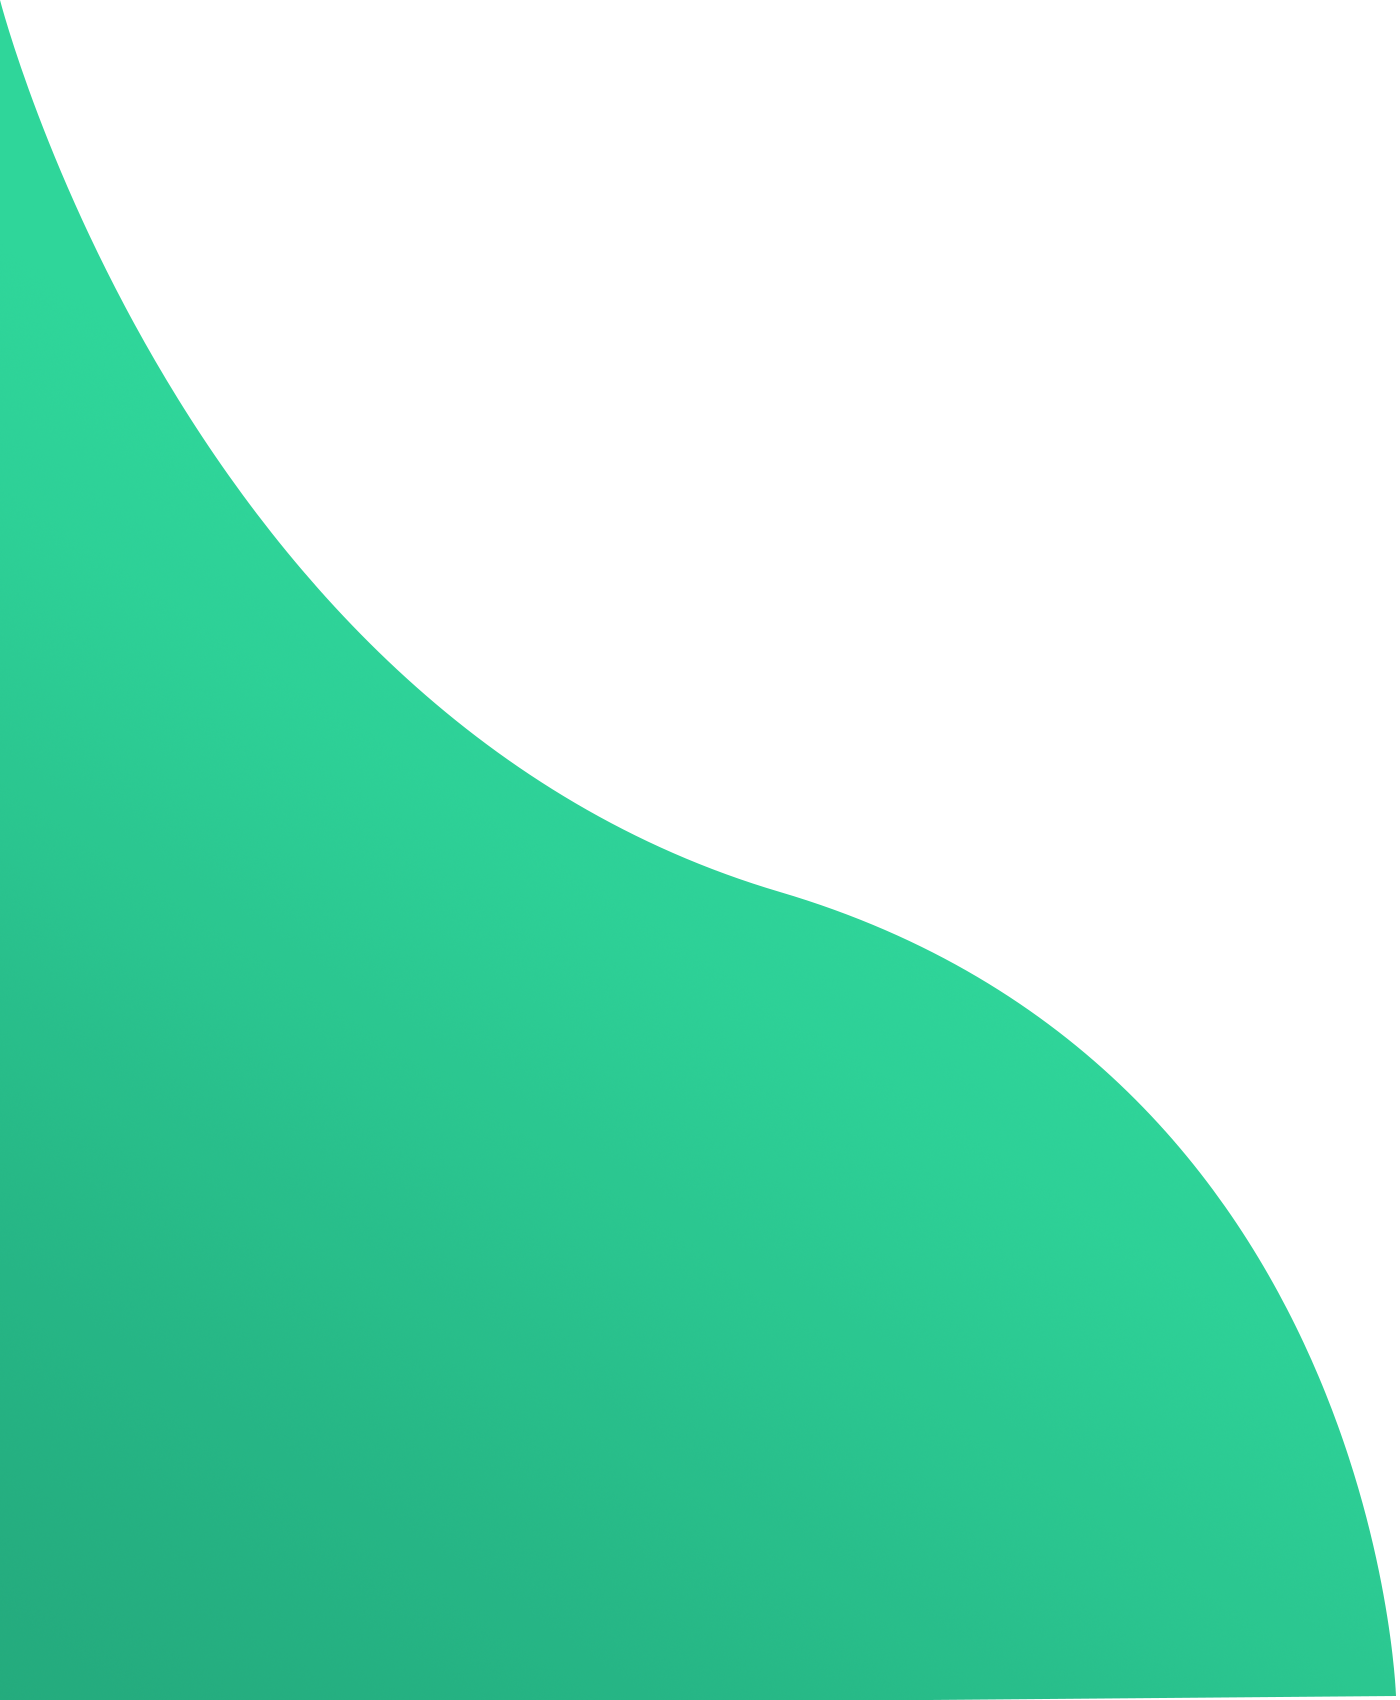
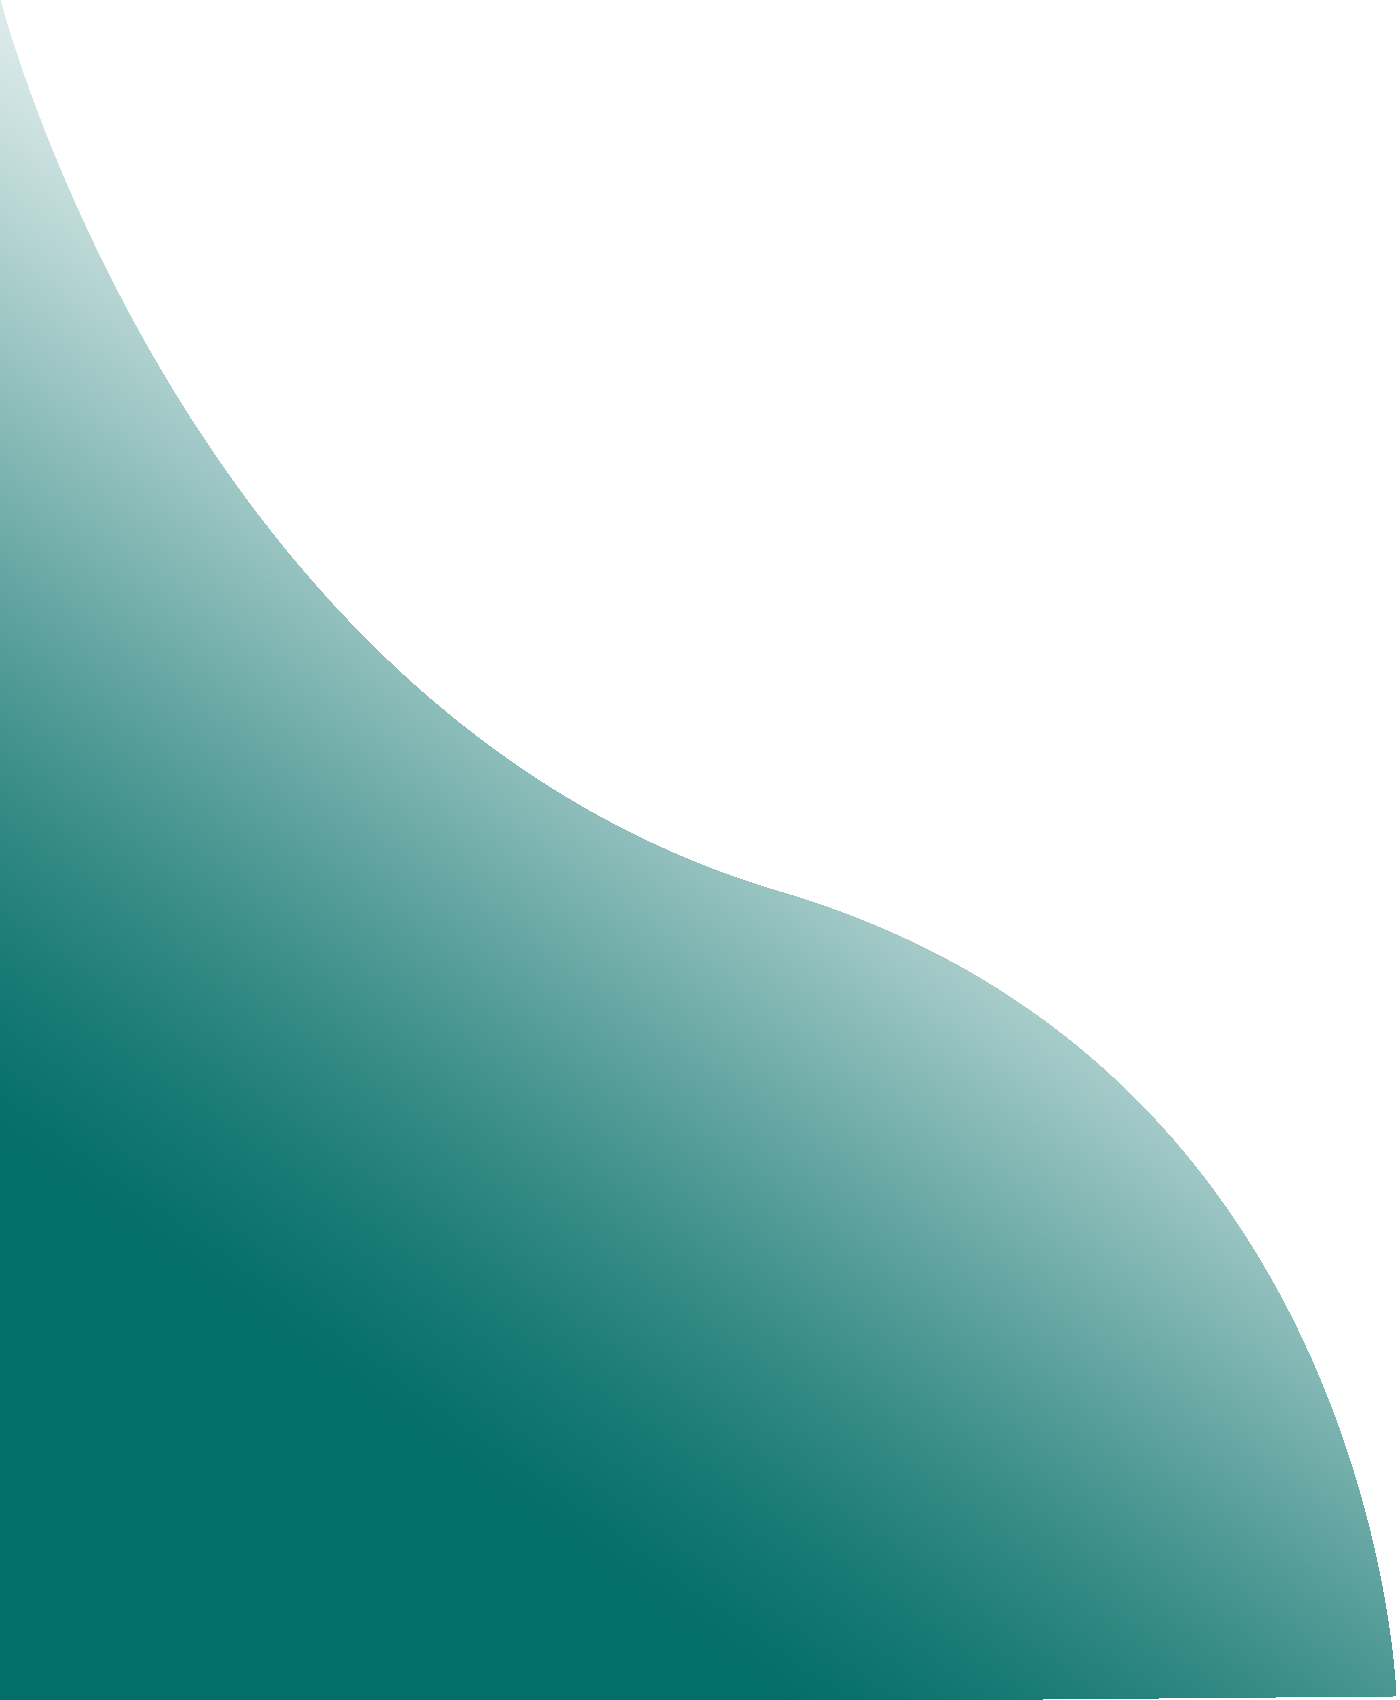
design changes

diff --git a/mainPackage/templates/main-temp.html b/mainPackage/templates/main-temp.html
@@ -42,7 +42,7 @@
           </ul>
         </div>
       </header>
-      <div class="demo-drawer mdl-layout__drawer mdl-color-text--white" style="background-color:#25AC7E;">
+      <div class="demo-drawer mdl-layout__drawer mdl-color-text--white" style="background-color:#045a68;">
         <header class="demo-drawer-header">
           <div class="demo-avatar-dropdown">
             <span>{% block username %}{% endblock %}</span>
@@ -57,7 +57,7 @@
             </ul>
           </div>
         </header>
-        <nav class="demo-navigation mdl-navigation" style="background-color:#2DD096;">
+        <nav class="demo-navigation mdl-navigation" style="background-color:#19b5b1;">
           {% block navItem %}
           {% endblock %}
       </div>

diff --git a/mainPackage/static/signup.css b/mainPackage/static/signup.css
@@ -2,7 +2,8 @@
   padding-top: 3%;
   text-align: center;
   color: #333333;
-  font-family: 'Poppins', sans-serif
+  font-family: 'Poppins', sans-serif;
+  font-size: 3em;
 }
 
 .mdl-card {
@@ -56,11 +57,11 @@ a{
 }
 
 a:hover{
-	color: #38d39f;
+	color: #19b5b1;
 }
 
 .mdl-textfield__label:after{
-  background-color: #38d39f;
+  background-color: #19b5b1;
 }
 
 .mdl-textfield__label {

diff --git a/mainPackage/static/login-signup.css b/mainPackage/static/login-signup.css
@@ -200,7 +200,7 @@ form{
 }
 
 #signupBtn:hover, #forgotPwBtn:hover{
-	color: #38d39f;
+	color: #19b5b1;
 }
 
 .btn{
@@ -224,6 +224,14 @@ form{
 	background-position: right;
 }
 
+#role {
+  font-size: 20px;
+}
+
+::placeholder { /* Chrome, Firefox, Opera, Safari 10.1+ */
+  color: black;
+  opacity: 1; /* Firefox */
+}
 
 @media screen and (max-width: 1050px){
 	.container{

diff --git a/mainPackage/templates/login.html b/mainPackage/templates/login.html
@@ -18,6 +18,7 @@
 		<div class="img">
       <image src="{{ url_for('static', filename='img/medical.svg') }}" >
 		</div>
+    
 		<div class="login-content">
 			<form class="" action="" method="post">
         <image src="{{ url_for('static', filename='img/avatar.svg') }}" >
